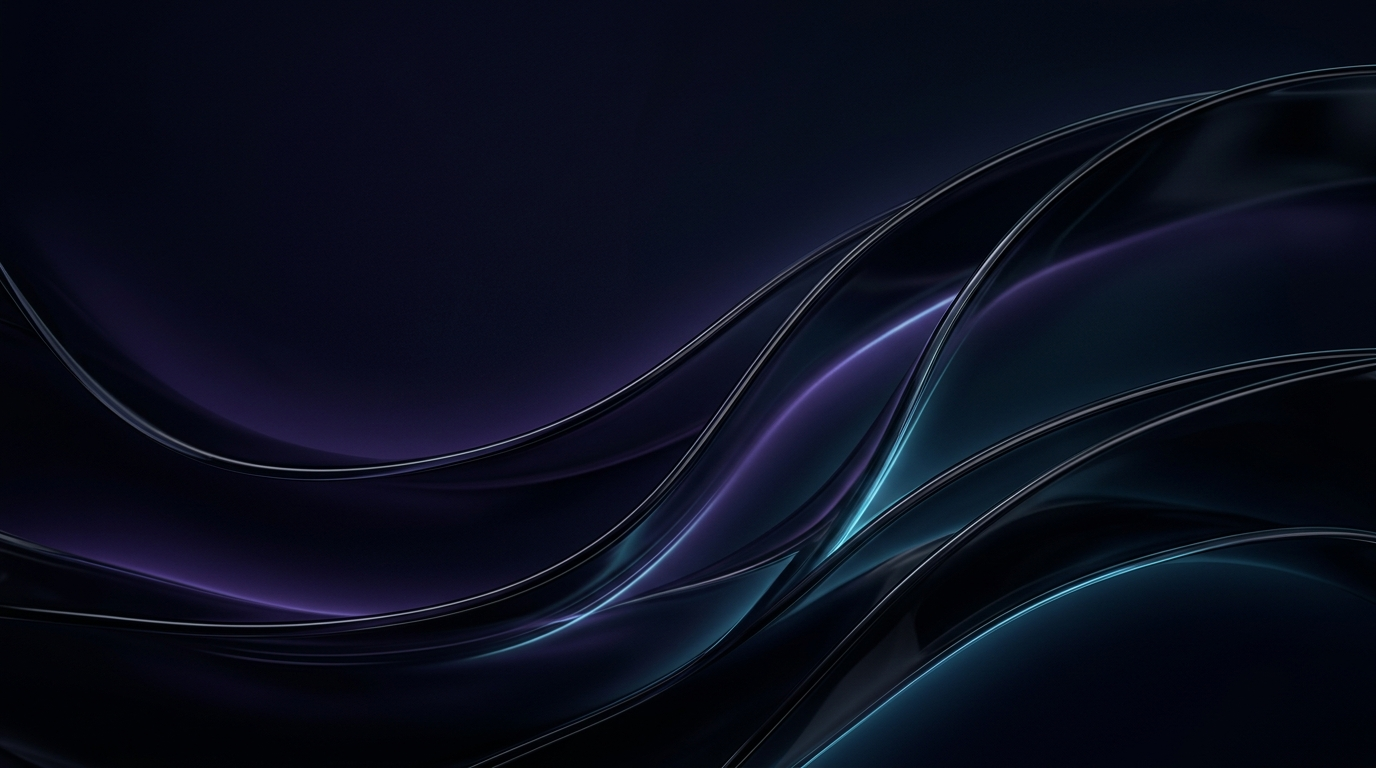
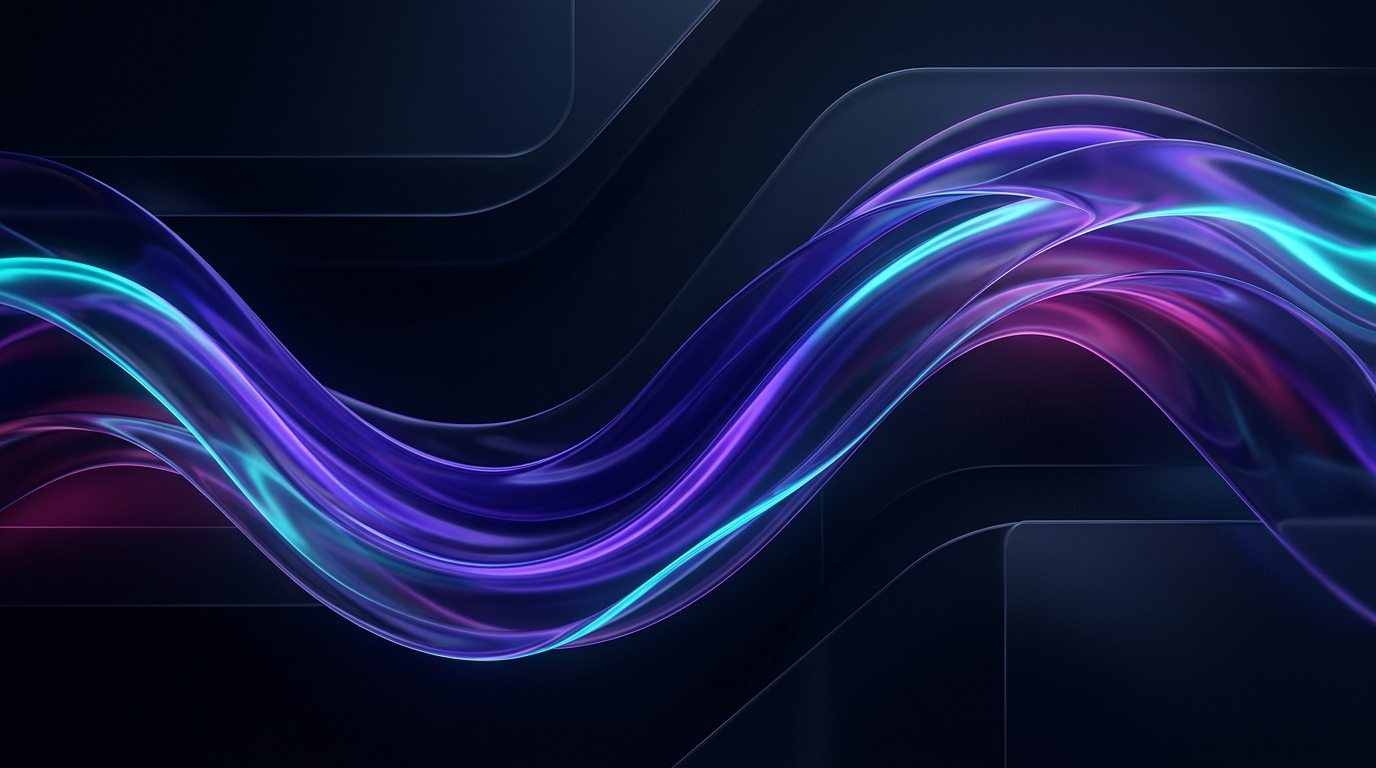
feat(settings): add wallpaper settings with presets and custom URL support

diff --git a/app/components/settings/SettingsAppearanceTab.vue b/app/components/settings/SettingsAppearanceTab.vue
@@ -93,14 +93,107 @@
 
       <!-- Mini Live Preview Box -->
       <div
-        class="mt-4 p-4 h-50 flex justify-center items-center rounded-xl border border-white/10 relative overflow-hidden bg-cover bg-center"
-        style="background-image: url('/images/dashboard-bg.jpg')">
+        class="mt-4 p-4 h-50 flex justify-center items-center rounded-xl border border-white/10 relative overflow-hidden bg-cover bg-center transition-all duration-700"
+        :style="{ backgroundImage: `url(${backgroundImage})` }">
         <div
           class="glass-header border border-white/20 w-[90%] h-[70%] flex flex-col justify-center items-center gap-3 rounded-lg text-center"
           :style="{ backdropFilter: `blur(${blurRadius}px)` }">
-          <p class="text-xs font-semibold text-white">Live Blur Preview: {{ blurRadius }}px</p>
-          <p class="text-[10px] text-slate-300">Header, sidebar & footer instantly update to this exact blur radius.</p>
+          <p class="text-xs font-semibold text-white">Live Blur & Wallpaper Preview: {{ blurRadius }}px</p>
+          <p class="text-[10px] text-slate-300">Header, sidebar & footer instantly update with your selected wallpaper and blur.</p>
         </div>
+      </div>
+    </div>
+
+    <!-- Background Wallpaper & Theme Ambience -->
+    <div class="p-5 rounded-2xl bg-white/[0.03] border border-white/[0.06] space-y-5">
+      <div class="flex items-center justify-between">
+        <div>
+          <p class="text-xs font-semibold text-white flex items-center gap-1.5">
+            <LucideImage class="w-3.5 h-3.5 text-indigo-400" />
+            <span>Background Wallpaper & Ambience</span>
+          </p>
+          <p class="text-[11px] text-slate-400">Choose from curated 3D liquid glass wallpapers or enter a custom image URL</p>
+        </div>
+        <button
+          v-if="backgroundImage !== defaultWallpaper"
+          @click="resetWallpaper"
+          type="button"
+          class="text-[11px] text-indigo-400 hover:text-indigo-300 underline underline-offset-2 cursor-pointer flex items-center gap-1"
+        >
+          <LucideRotateCcw class="w-3 h-3" />
+          <span>Reset Wallpaper</span>
+        </button>
+      </div>
+
+      <!-- Wallpaper Preset Cards Grid -->
+      <div class="grid grid-cols-1 sm:grid-cols-2 lg:grid-cols-3 gap-3">
+        <div
+          v-for="wp in wallpaperPresets"
+          :key="wp.url"
+          @click="setBackgroundImage(wp.url)"
+          :class="[
+            'group relative rounded-xl border p-2 flex flex-col gap-2 cursor-pointer transition-all duration-300 overflow-hidden text-left',
+            backgroundImage === wp.url
+              ? 'bg-indigo-600/20 border-indigo-500 shadow-lg shadow-indigo-500/20 ring-1 ring-indigo-500/60'
+              : 'bg-white/[0.02] border-white/10 hover:border-white/30 hover:bg-white/[0.04]'
+          ]"
+        >
+          <!-- Thumbnail with overlay -->
+          <div class="relative w-full h-24 rounded-lg overflow-hidden bg-slate-900 border border-white/5">
+            <img
+              :src="wp.url"
+              :alt="wp.title"
+              class="w-full h-full object-cover object-center group-hover:scale-105 transition-transform duration-500"
+            />
+            <div class="absolute inset-0 bg-gradient-to-t from-black/80 via-black/20 to-transparent"></div>
+            <!-- Active Check Badge -->
+            <div
+              v-if="backgroundImage === wp.url"
+              class="absolute top-2 right-2 px-1.5 py-0.5 rounded-full bg-indigo-500 text-white text-[10px] font-bold flex items-center gap-1 shadow-sm"
+            >
+              <LucideCheck class="w-2.5 h-2.5" />
+              <span>Active</span>
+            </div>
+            <!-- Tag -->
+            <div class="absolute bottom-1.5 left-2">
+              <span class="text-[9px] font-semibold uppercase tracking-wider px-1.5 py-0.5 rounded bg-white/15 backdrop-blur-md text-white border border-white/10">
+                {{ wp.tag }}
+              </span>
+            </div>
+          </div>
+
+          <!-- Description -->
+          <div class="px-1 py-0.5">
+            <p class="text-xs font-semibold text-white">{{ wp.title }}</p>
+            <p class="text-[10px] text-slate-400 line-clamp-1">{{ wp.desc }}</p>
+          </div>
+        </div>
+      </div>
+
+      <!-- Custom Wallpaper URL Input -->
+      <div class="pt-3 border-t border-white/[0.06] space-y-2">
+        <label class="text-[11px] font-medium text-slate-300 flex items-center gap-1.5">
+          <LucideLink class="w-3 h-3 text-slate-400" />
+          <span>Custom Background Image URL</span>
+        </label>
+        <div class="flex items-center gap-2">
+          <input
+            v-model="customUrl"
+            type="url"
+            placeholder="https://example.com/your-wallpaper.jpg"
+            @keyup.enter="applyCustomUrl"
+            class="flex-1 px-3 py-2 rounded-xl glass-input text-xs text-white placeholder:text-slate-500 focus:outline-none focus:ring-1 focus:ring-indigo-500 font-mono"
+          />
+          <button
+            @click="applyCustomUrl"
+            :disabled="!customUrl.trim()"
+            type="button"
+            class="px-4 py-2 rounded-xl bg-indigo-600 hover:bg-indigo-500 disabled:opacity-40 disabled:cursor-not-allowed text-xs font-medium text-white shadow-sm transition cursor-pointer"
+          >
+            Apply
+          </button>
+        </div>
+        <p class="text-[10px] text-slate-500">Supports direct URLs to PNG, JPG, or WebP images.</p>
       </div>
     </div>
   </div>
@@ -108,7 +201,54 @@
 
 <script setup lang="ts">
 const { sidebarWidth, minWidth, maxWidth, isCollapsed, setCollapsed, resetWidth } = useSidebar()
-const { blurRadius, setBlur } = useGlassSettings()
+const { blurRadius, setBlur, backgroundImage, setBackgroundImage } = useGlassSettings()
+
+const defaultWallpaper = '/images/cyber-glass-bg.jpg'
+const customUrl = ref('')
+
+const wallpaperPresets = [
+  {
+    title: 'Liquid Chromatic Ribbon',
+    desc: 'Iridescent refractive glass ribbons in deep obsidian space',
+    url: '/images/cyber-glass-bg.jpg',
+    tag: 'Ultra Luxury',
+  },
+  {
+    title: 'Dark Obsidian Wave',
+    desc: 'Sleek dark fluid ribbons with violet and electric cyan neon glow',
+    url: '/images/dark-bg.jpg',
+    tag: 'Dark Mode',
+  },
+  {
+    title: 'Atmospheric Deep Violet',
+    desc: 'Luminous violet ambient glass with subtle deep purple glow',
+    url: '/images/auth-bg.jpg',
+    tag: 'Deep Focus',
+  },
+  {
+    title: 'Prismatic Light Glass',
+    desc: 'Bright translucent crystal dispersion with pure ethereal highlights',
+    url: '/images/dashboard-bg-light.jpg',
+    tag: 'Light Accent',
+  },
+  {
+    title: 'Cosmic Nebula Glass',
+    desc: 'Vibrant galactic glass refraction with soft electric glow',
+    url: '/images/dashboard-bg-prev.jpg',
+    tag: 'Cosmic',
+  },
+]
+
+const applyCustomUrl = () => {
+  if (customUrl.value && customUrl.value.trim()) {
+    setBackgroundImage(customUrl.value.trim())
+    customUrl.value = ''
+  }
+}
+
+const resetWallpaper = () => {
+  setBackgroundImage(defaultWallpaper)
+}
 
 const presets = [
   { px: 0, label: '0px (Clear)' },
@@ -119,3 +259,4 @@ const presets = [
   { px: 24, label: '24px (Heavy)' },
 ]
 </script>
+

diff --git a/app/composables/useGlassSettings.ts b/app/composables/useGlassSettings.ts
@@ -1,5 +1,6 @@
 export const useGlassSettings = () => {
   const blurRadius = useState<number>('glass_blur_radius', () => 2)
+  const backgroundImage = useState<string>('glass_bg_image', () => '/images/cyber-glass-bg.jpg')
 
   const applyBlur = (val: number) => {
     if (import.meta.client) {
@@ -21,16 +22,34 @@ export const useGlassSettings = () => {
     }
   }
 
+  const setBackgroundImage = (url: string) => {
+    if (!url || !url.trim()) return
+    const cleanUrl = url.trim()
+    backgroundImage.value = cleanUrl
+    if (import.meta.client) {
+      try {
+        localStorage.setItem('glass_bg_image', cleanUrl)
+      } catch (e) {
+        // ignore
+      }
+    }
+  }
+
   // Load from localStorage on client
   onMounted(() => {
     if (import.meta.client) {
       try {
-        const saved = localStorage.getItem('glass_blur_radius')
-        if (saved !== null) {
-          const parsed = parseFloat(saved)
+        const savedBlur = localStorage.getItem('glass_blur_radius')
+        if (savedBlur !== null) {
+          const parsed = parseFloat(savedBlur)
           if (!isNaN(parsed) && parsed >= 0 && parsed <= 40) {
             blurRadius.value = parsed
           }
+        }
+
+        const savedBg = localStorage.getItem('glass_bg_image')
+        if (savedBg && savedBg.trim()) {
+          backgroundImage.value = savedBg.trim()
         }
       } catch (e) {
         // ignore
@@ -47,5 +66,7 @@ export const useGlassSettings = () => {
   return {
     blurRadius,
     setBlur,
+    backgroundImage,
+    setBackgroundImage,
   }
 }

diff --git a/app/layouts/default.vue b/app/layouts/default.vue
@@ -3,8 +3,8 @@
     class="min-h-screen bg-[#070510] text-slate-100 flex flex-col relative overflow-x-hidden selection:bg-indigo-500 selection:text-white">
     <!-- Fluid 3D Glassmorphic Background Image -->
     <div class="fixed inset-0 pointer-events-none overflow-hidden z-0">
-      <img src="/images/dashboard-bg.jpg" alt="Fluid 3D Glass Ambient Background"
-        class="absolute inset-0 w-full h-full object-cover object-center select-none " />
+      <img :src="backgroundImage" alt="Fluid 3D Glass Ambient Background"
+        class="absolute inset-0 w-full h-full object-cover object-center select-none transition-all duration-700" />
       <!-- Ambient overlay & subtle glow orbs -->
       <div class="absolute inset-0 bg-[#04020a]/30"></div>
       <div class="absolute -top-32 -left-32 w-96 h-96 rounded-full bg-indigo-600/20 blur-[140px]"></div>
@@ -39,7 +39,7 @@
 
 <script setup lang="ts">
 const { isCollapsed, sidebarWidth, isDragging, collapsedWidth } = useSidebar()
-const { blurRadius } = useGlassSettings()
+const { blurRadius, backgroundImage } = useGlassSettings()
 
 // Dynamic left margin on desktop (lg screen and up) matching the sidebar size
 const isLgScreen = ref(true)

diff --git a/app/layouts/auth.vue b/app/layouts/auth.vue
@@ -2,9 +2,9 @@
   <div class="h-screen w-full relative overflow-hidden bg-[#090314] flex items-center justify-center">
     <!-- Fluid 3D Glassmorphic Background Image -->
     <img
-      src="/images/auth-bg.jpg"
+      :src="backgroundImage"
       alt="Atmospheric glass background"
-      class="absolute inset-0 w-full h-full object-cover object-center select-none pointer-events-none"
+      class="absolute inset-0 w-full h-full object-cover object-center select-none pointer-events-none transition-all duration-700"
     />
     <!-- Subtle ambient overlay -->
     <div class="absolute inset-0 bg-black/25 pointer-events-none"></div>
@@ -15,4 +15,8 @@
     </div>
   </div>
 </template>
+
+<script setup lang="ts">
+const { backgroundImage } = useGlassSettings()
+</script>
 
